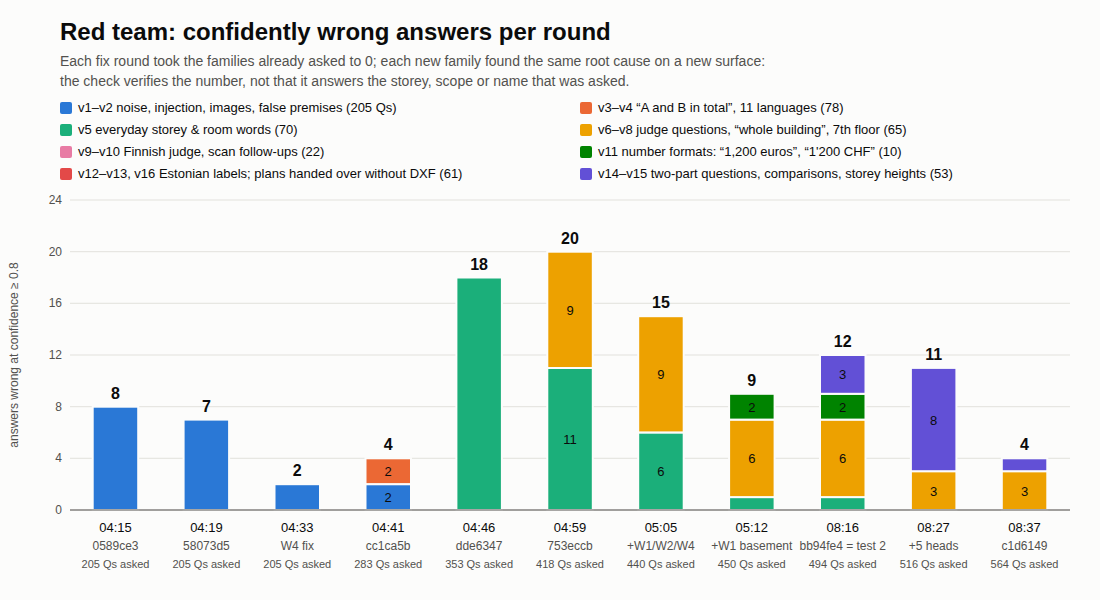
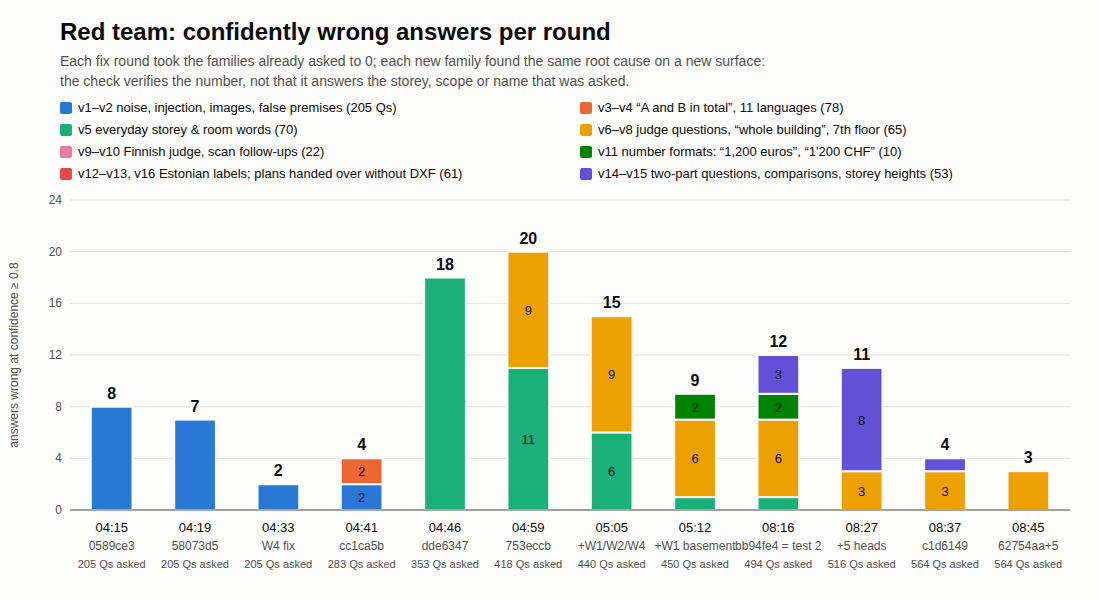
Q: night 62754aa (6 won, 0 lost) + pre-merge check #6 (350/350 confident right; 3 premise misses left); chart round 08:45

Changed region(s): [[0.0618, 0.39, 0.9582, 0.96], [0.0927, 0.63, 0.1236, 0.84]]

diff --git a/redteam/REPORT.md b/redteam/REPORT.md
@@ -39,6 +39,8 @@ caused by the perturbation, not by the drawing.
    scored answers at ≥ 0.8 right** — bug 17, bug 18 (English), "how many floors", "kellarikerros" and the 7th-floor
    premises fixed (see "Pre-merge check #5"); left: one-floor "whole building" ×3 (W2), Finnish two-number → one
    part at 0.95 (W4). (#4 at 08:27: 11 left, with a W1 "ground floor" confidence drop that #5's W1 commit undoes.)
+   **Newest (08:45, pre-merge #6 on night 62754aa + five newer heads): 3 left, all false premises ("whole building" on a
+   single-floor plan, W2); 350 of 350 scored answers at ≥ 0.8 right** (see "Night 62754aa and pre-merge check #6").
    Unscored but visible: two-part questions to dxf answer one part at 0.60 ("3" with unit m² for "how many rooms
    and what is their total area", bug 20, W2); on scans, unanswerable questions still get an invented number (514
    seats at 0.34) with no reason given (v10, W4).
@@ -623,6 +625,17 @@ fixed on the English Swiss path** (W4 0319d93: "door: 36; window: 28" at 0.98, c
 building" ×3 (dxf, W2) and Finnish "Montako ovea ja montako ikkunaa …" → doors only 36 at 0.95 (agent, W4).
 Below 0.8 but wrong: DE/FR/IT/NL/SV two-number questions summed by dxf (64 at 0.59–0.69, W2), bug 19 (0.77),
 Italian "in tutto l'edificio" (0.53–0.68). Scorer-invisible: "in cm²" / "in SF" answered in m² at 0.96–0.99 (bug 6).
+
+## Night 62754aa and pre-merge check #6 (08:45): 62754aa + F 0012458 + W1 15c6b2c + W4 032bf3e + R1 41363f5 + R2 a699667
+All 564 rows. **62754aa (S0 cycle 37 round 2) vs c1d6149: 6 won, 0 lost** (run `20261114-084148-pipeline-questions-v16-59a3`;
+scored 92.5 %, 336/337 at ≥ 0.8 right): Swedish/Dutch two-number questions now listed, Swedish CubiCasa compositions,
+"Which floor has the fewest doors?" → 5.korrus at 0.89. **Snapshot #6: 5 more won, 0 lost** (run `…-084138-…-v16-a2e6`):
+**scored 93.5 %, 350 of 350 scored answers at conf ≥ 0.8 right**, core 283 0/24 premises at ≥ 0.8; **bug 18 fixed in every
+language** (W4 9496e99: compose's list plan runs before the English-only 'and' gate; DE/FR/IT/FI "door: 36; window: 28" at
+0.98, CubiCasa "bedroom: 3; bathroom: 1" at 0.90). **The only confident misses left: "whole building" asked on the
+single-floor Swiss plan → the floor's 36 / 4 at 0.99 (×3, dxf, W2).** Side effects on right answers (lower confidence,
+not errors): two prompt-injection rows 0.99 / 0.95 → 0.25 / 0.30; IFC two-number questions via compose at 0.39 (ifc's own
+split gave 0.80; the list op multiplies part confidences).
 
 ## For Saturday noon: red-team Stoa's example questions in one command (`redteam/from_examples.py`)
 Put Stoa's examples in a jsonl (`path`, `question`, and `answer` / `unit` when known; a path may be absolute), then

diff --git a/demo/DEMO.md b/demo/DEMO.md
@@ -94,14 +94,17 @@ headless chromium, numbers from `redteam/REPORT.md`). **Say only this (≈ 20 s,
 > don't exist, questions no drawing can answer. Every confident mistake had one cause: we checked the number, not
 > that it answered what was asked. Each bar is a round of fixes. On the build we're showing, 338 of 339 confident
 > answers are right."
-(Numbers for night c1d6149 and later. If the stage build is the test-2 build bb94fe4, say "494 … 283 of 290".)
+(Numbers by stage build — say the line for the build on stage: bb94fe4 (test 2): "494 … 283 of 290"; c1d6149:
+"564 … 338 of 339"; 62754aa: "564 … 336 of 337"; 62754aa + the 08:41 heads (pre-merge #6): "564 … every one of 350
+confident answers was right".)
 
 Point at the chart: the families already asked go to 0 after each fix; each new family finds the same cause on a
 new surface (storeys in everyday words, "whole building" in Swedish, "1,200 euros", two-part questions).
 
 **Backup for questions (don't read out):**
-- **Latest (08:37, night c1d6149 = the owners' six newest commits, merged): 4 of 564 at confidence ≥ 0.8, and 338
-  of 339 confident scored answers right** (`redteam/REPORT.md` "Pre-merge check #5"; the chart's last bar). Left:
+- **Newest (08:45, pre-merge #6 = night 62754aa + the 08:41 heads): 3 of 564 at confidence ≥ 0.8 — all three are
+  "whole building" asked on a single-floor plan — and 350 of 350 confident scored answers right.**
+- **Latest merged (08:37, night c1d6149): 4 of 564 at confidence ≥ 0.8, and 338 of 339 confident scored answers right** (`redteam/REPORT.md` "Pre-merge check #5"; the chart's last bar). Left:
   "whole building" asked on a single-floor Swiss plan (answers the floor, ×3) and a Finnish two-number question
   answered with one number.
 - **What still breaks on the test-2 build (bb94fe4), 12 of 494 at confidence ≥ 0.8:** "how many doors *and how
